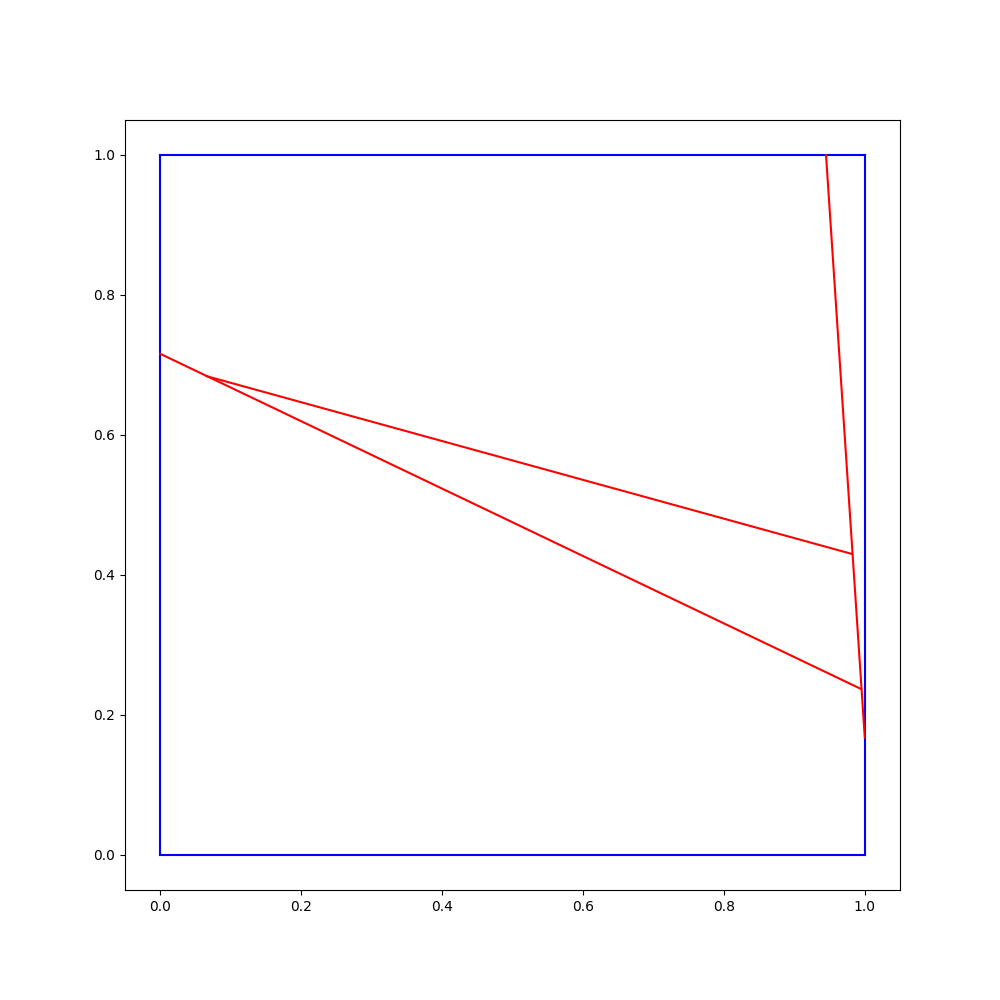
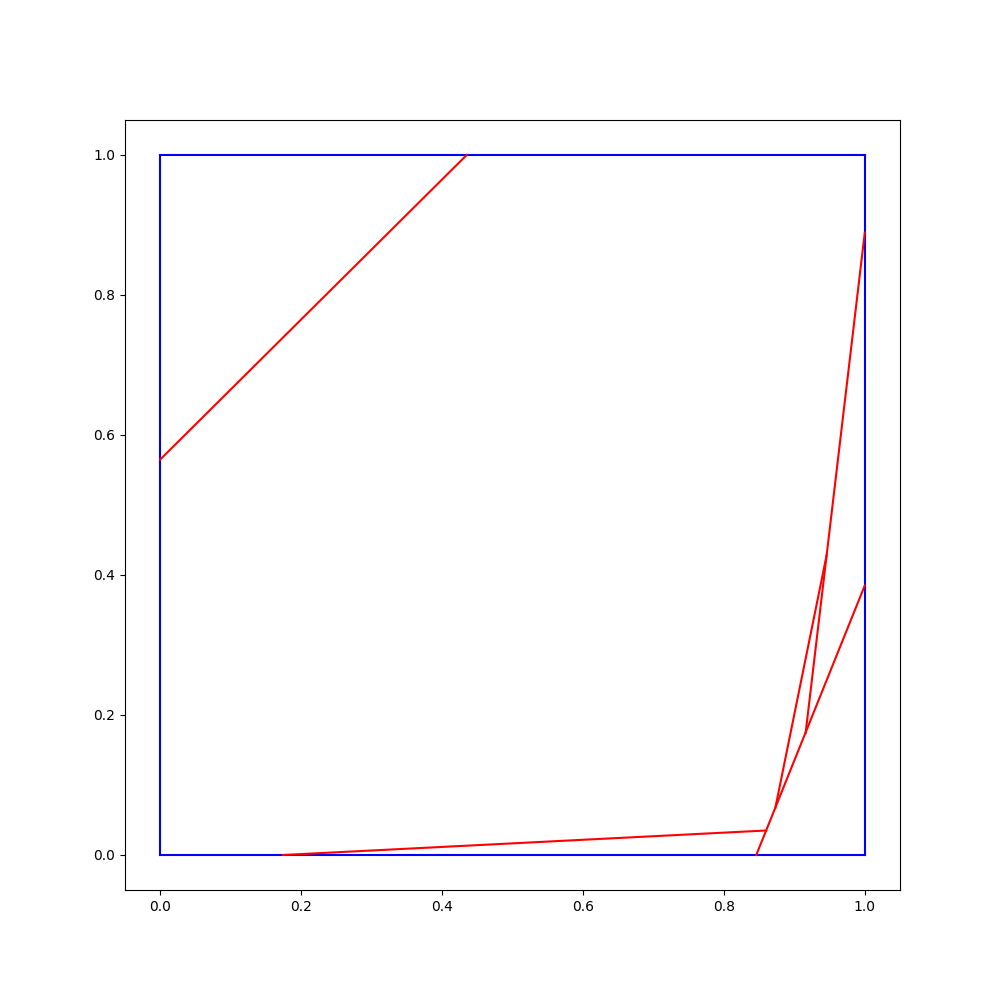
Got regular and irregular working, just need to correct the side lengths!

diff --git a/PolyDetection.py b/PolyDetection.py
@@ -17,6 +17,9 @@ plt.bone()
 
 # --------------------------------- Vertex class ---------------------------------
 class Vertex:
+    reg = 0
+    irr = 0
+
     def __init__(self, x, y):
         self.x = float(x)
         self.y = float(y)
@@ -352,7 +355,7 @@ for k in range(1):
 
     num_ngons=[]
 
-    num_cuts=3
+    num_cuts=5
     for i in range(num_cuts):
         p=pick_a_poly(polys)
         polys=cut_a_poly(p, polys)
@@ -379,15 +382,27 @@ for k in range(1):
     with open(f"./neural_data/ngon_counts_TESTING.json", "w") as f:
         json.dump(num_ngons, f, indent=2)
 
-    # Build vertex-to-polygons mapping
+    # Build vertex-to-polygons mapping with colinearity check
     vertex_to_polys = {}
     for poly_idx, poly in enumerate(polys):
-        for vert in poly:
+        n = len(poly)
+        for i, vert in enumerate(poly):
             vert_tuple = tuple(vert)
             vert_key = str(vert_tuple)  # Convert tuple to string for JSON
+
+            # Check colinearity with previous and next vertex
+            prev_vert = poly[i - 1]
+            next_vert = poly[(i + 1) % n]
+            x0, y0 = prev_vert
+            x1, y1 = vert
+            x2, y2 = next_vert
+            # Compute cross product to check colinearity
+            cross = (x1 - x0) * (y2 - y0) - (y1 - y0) * (x2 - x0)
+            is_irregular = 1 if np.isclose(cross, 0, atol=0.0005) else 0
+
             if vert_key not in vertex_to_polys:
                 vertex_to_polys[vert_key] = []
-            vertex_to_polys[vert_key].append(poly_idx)
+            vertex_to_polys[vert_key].append((poly_idx, is_irregular))
 
     # Save to JSON
     with open(f"./vertex_to_polys_{k}.json", "w") as f:
